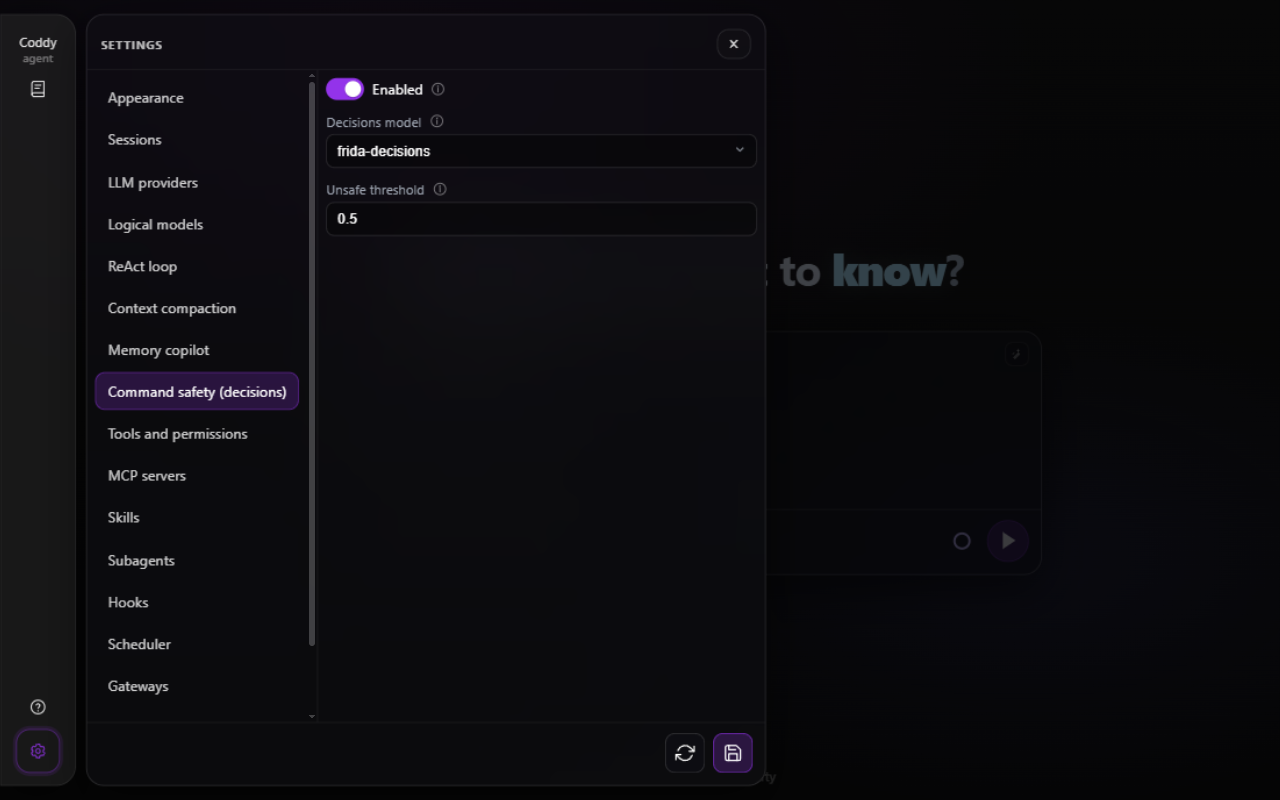
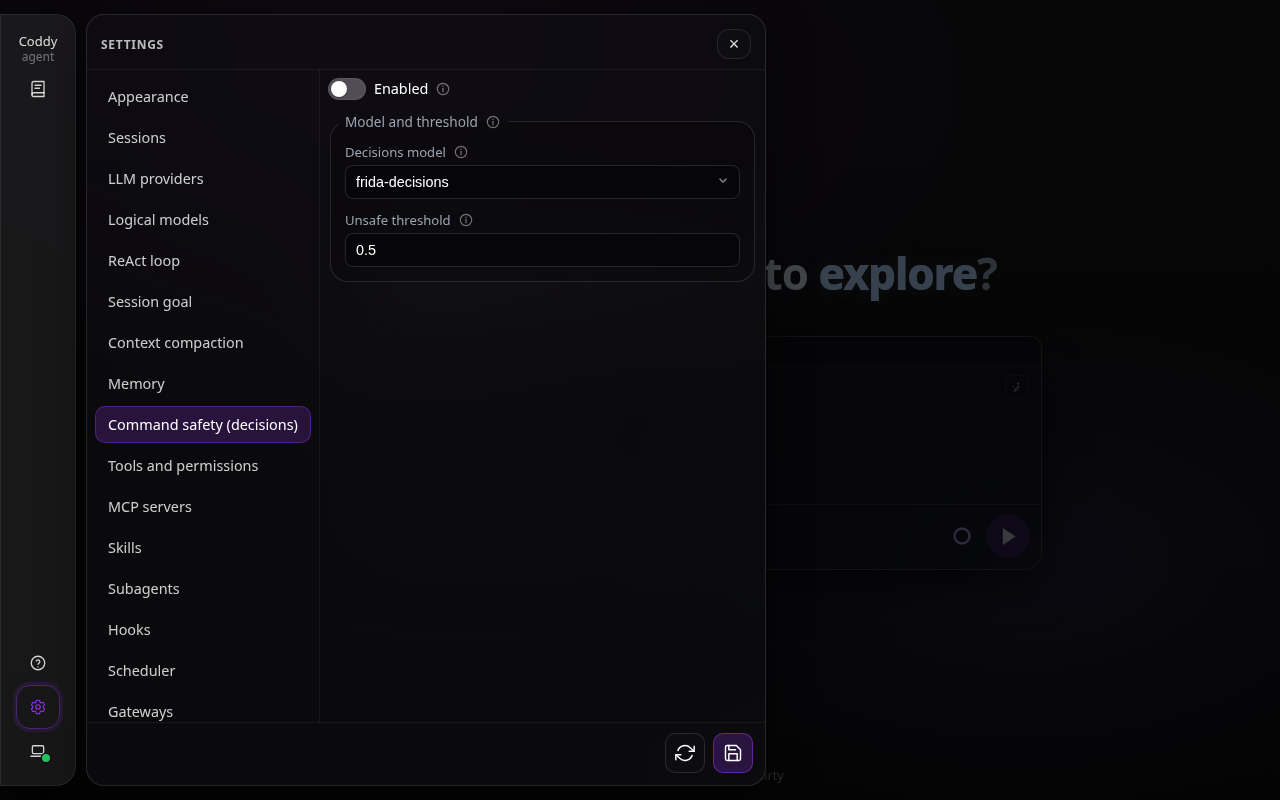
feat(ui): lay the decisions settings out as switch and fieldset
The Command safety (decisions) tab was a column of three loose fields. It
now follows the section form layout of the other tabs: the enable switch
opens the tab on its own, off by default, and the model and the unsafe
threshold sit in one fieldset, Model and threshold, whose (i) says what
the two fields decide, which commands are checked and that a command
longer than the model reads is not run.

DESIGN.md lists the new group, the docs screenshot is retaken on the real
surface (the switch off, the fieldset), and the vitest suite holds the
layout and the default.

diff --git a/external/ui/src/ui/settings/SettingsSection.decisions.test.tsx b/external/ui/src/ui/settings/SettingsSection.decisions.test.tsx
@@ -1,14 +1,22 @@
 import React from "react";
 import { afterEach, expect, test } from "vitest";
-import { cleanup, fireEvent, render, screen } from "@testing-library/react";
+import {
+  cleanup,
+  fireEvent,
+  render,
+  screen,
+  within,
+} from "@testing-library/react";
 import { SettingsSection } from "./SettingsSection";
 
 afterEach(cleanup);
 
-function Harness() {
-  const [doc, setDoc] = React.useState<Record<string, unknown>>({
-    decisions: { enable: false, model: "frida-decisions", threshold: 0.5 },
-  });
+function Harness(props: { initial?: Record<string, unknown> }) {
+  const [doc, setDoc] = React.useState<Record<string, unknown>>(
+    props.initial ?? {
+      decisions: { enable: false, model: "frida-decisions", threshold: 0.5 },
+    },
+  );
   return (
     <>
       <SettingsSection
@@ -90,4 +98,33 @@ test("raising the unsafe threshold writes it to the document", () => {
   fireEvent.change(input, { target: { value: "0.9", valueAsNumber: 0.9 } });
   const doc = JSON.parse(screen.getByTestId("doc").textContent!);
   expect(doc.decisions.threshold).toBe(0.9);
+});
+
+// DESIGN.md "Section form layout": the section's switch opens the tab on its
+// own, the fields sit in a fieldset by meaning, its description behind the
+// (i) beside the legend.
+test("the switch stands alone above one fieldset of the model and the threshold", () => {
+  const { container } = render(<Harness />);
+  const root = container.querySelector(".settings-schema-root")!;
+  const [first, second] = [...root.children] as HTMLElement[];
+  if (!first || !second) throw new Error("the form has fewer than two blocks");
+  expect(first.tagName).not.toBe("FIELDSET");
+  expect(first.querySelector("[role='switch']")).not.toBeNull();
+  expect(second.tagName).toBe("FIELDSET");
+  const legend = second.querySelector(":scope > legend")!;
+  expect(legend.textContent).toContain("Model and threshold");
+  expect(legend.querySelector("button")).not.toBeNull();
+  expect(within(second).getByRole("combobox")).toBeTruthy();
+  expect(
+    within(second).getByRole("spinbutton", { name: /unsafe threshold/i }),
+  ).toBeTruthy();
+  expect(within(second).queryByRole("switch")).toBeNull();
+});
+
+test("a configuration without the section shows the check switched off", () => {
+  render(<Harness initial={{}} />);
+  expect(screen.getByRole("switch", { name: /enabled/i })).toHaveAttribute(
+    "aria-checked",
+    "false",
+  );
 });

diff --git a/external/ui/src/ui/i18n/messages/ru.ts b/external/ui/src/ui/i18n/messages/ru.ts
@@ -284,6 +284,9 @@ export const messagesRu: Record<string, string> = {
   "settings.group.memory.runs": "Запуски",
   "settings.group.memory.limits": "Ограничения",
   "settings.group.memory.instructions": "Инструкции",
+  "settings.group.decisions.verdict": "Модель и порог",
+  "settings.group.decisions.verdictDesc":
+    "Модель decisions получает каждую команду оболочки, локальную или через SSH, которая выполнилась бы без запроса разрешения, и команда отклоняется, когда вероятность небезопасного варианта достигает порога. Команда длиннее того, что читает модель, не выполняется, frida-decisions читает 512 токенов, clef-flash 8192. Для проверки нужны учётные данные NeuralDeep в строке провайдера neuraldeep.",
   "settings.group.scheduler.jobs": "Задания",
   "settings.group.logger.main": "Настройки логирования",
   "settings.group.sessions.storage": "Хранилище",

diff --git a/external/ui/src/ui/i18n/messages/en.ts b/external/ui/src/ui/i18n/messages/en.ts
@@ -282,6 +282,9 @@ export const messagesEn: Record<string, string> = {
   "settings.group.memory.runs": "Runs",
   "settings.group.memory.limits": "Limits",
   "settings.group.memory.instructions": "Instructions",
+  "settings.group.decisions.verdict": "Model and threshold",
+  "settings.group.decisions.verdictDesc":
+    "The decisions model is asked about every shell command, local or over SSH, that would run without a permission prompt, and the command is rejected once the probability of the unsafe option reaches the threshold. A command longer than the model reads is not run: frida-decisions reads 512 tokens, clef-flash 8192. The check needs a NeuralDeep credential on the neuraldeep provider row.",
   "settings.group.scheduler.jobs": "Jobs",
   "settings.group.logger.main": "Logger settings",
   "settings.group.sessions.storage": "Storage",

diff --git a/external/ui/src/ui/settings/SettingsSection.tsx b/external/ui/src/ui/settings/SettingsSection.tsx
@@ -818,6 +818,18 @@ function objectSectionGroups(key: string): SchemaFormGroup[] | undefined {
       },
     ];
   }
+  if (key === "decisions") {
+    // The switch opens the tab on its own; the two knobs of the verdict sit
+    // together, what they mean behind the (i).
+    return [
+      {
+        id: "verdict",
+        legend: translate("settings.group.decisions.verdict"),
+        description: translate("settings.group.decisions.verdictDesc"),
+        paths: ["model", "threshold"],
+      },
+    ];
+  }
   if (key === "scheduler") {
     return [{ id: "jobs", legend: translate("settings.group.scheduler.jobs") }];
   }

diff --git a/DESIGN.md b/DESIGN.md
@@ -88,7 +88,7 @@ The **Settings** drawer (**`#/settings`**, **`Settings.tsx`**) is **tabbed**, no
 - **Layout**: on **`min-width: 1200px`** the drawer is **`min(680px, …)`** wide - as wide as the section rail plus a content column that holds **three theme cards a row** on Appearance (**`auto-fill, minmax(130px, 1fr)`**, 10px gap), the cards keeping their size and the drawer giving way; **`appearanceSettingsLayout.test.tsx`** computes the column count from the two rules - with a vertical section rail on the left (**`.settings-nav`**) and the content panel on the right (**`.settings-tabs-layout`** is `display:flex; row`). On **`max-width: 1199px`** (same breakpoint as the rest of the shell, via **`isMobileShell`** / **`shellBreakpoint.ts`**) the nav is a **2-wide tile grid** master–detail (**`SettingsTileGrid`**, **`.settings-tile-grid`**): each tile (**`data-testid="settings-tile-<id>"`**) shows the section **title** on top and a short 3–5 word **description** below (**`SECTION_DESCRIPTIONS`** in **`settingsSections.ts`**) styled after the Scheduler job rows. The description clamps to two lines with an ellipsis (**`-webkit-line-clamp: 2`**) and the full text shows in a native **`title`** tooltip on hover. Tapping a tile opens that section with a **← Back to sections** arrow in the drawer's head (**`.settings-head-back`**); the desktop rail (**`SettingsNav`**) is unchanged. On that shell the drawer has **one inline inset**, **14px**, set by the head and the lead pane: the tile grid, the section content (**`.settings-scroll`**) and the reload / save footer all ride it (**`padding-inline: 14px`** inside the **`max-width: 1199px`** block), and the tile grid keeps the same **14px** off the head's rule above it, so every band of the panel starts and ends on the same edge. The wide layout keeps the content panel's own **8px**, because there its left edge is the seam against the section rail rather than the drawer's edge.
 - **Secrets the server never sends back** (**`writeOnly`** in the schema, **`x-coddy-configured`** on the document): **`httpserver.auth_token`**, the sign-in password hash and the swarm tokens (**`swarm.auth_token`**, **`swarm.pairing_tokens`**, a join entry's **`pairing_token`** and **`token`**) come back from **`GET /coddy/config`** as a **`*_configured`** flag, never as a value. Such a field is a password input that is **empty** while a value is set and says so in its placeholder (**Set. Leave empty to keep it**, else **Not set**); leaving it empty keeps the stored value, typing replaces it. A list of secrets says how many are set and hidden in a state line under its legend (**`settings.secret.listSet`**, counted per locale), and the values entered in it replace them all. The two-way credentials - a provider's **`api_key`**, a remote's **`token`** - stay ordinary text fields, because the page needs their value.
 - **The relay's own Settings.** On a relay's home (the app on a relay, not on a node behind it) the drawer edits the relay's deployment: **`GET /coddy/config/schema`** answers with the relay's form (**`config.RelayUISchemaJSON`**: **`swarm`** and **`logger`** only, **`x-coddy-relay: true`** at the root), and **`deriveSettingsSections(schema, {relay: true})`** draws **Appearance** and those two tabs; the **Sessions** tab, which manages the stored sessions of an agent, is left out, even before the schema has arrived. The document is scoped the same way (**`configapi.Backend.Sections`**): **`GET /coddy/config`** serves only **`swarm`**, **`logger`** and the revision, and a save takes only those and refuses any other section, so a relay client never reads the host's provider keys or writes its other settings. **Save all** PUTs that document, and the relay applies the **`swarm`** section at once (a listen address that moved takes a restart); the **`logger`** section is read when the process starts next, as an agent's is. A node reached through a relay shows that node's own Settings; a node that is itself a relay refuses a write sent through the mount (**403**), so a relay is edited only on its own page.
-- **Section form layout** (**`SchemaForm`** **`groups`**, **`SchemaFormGroup`** **`{id, legend, description?, paths?, collapsible?}`**): a settings form is fieldsets by meaning, not a column of loose fields. A section's own **`enable`** switch opens the form **outside every fieldset**, above everything, wherever the schema puts it (Subagents, Hooks, Memory, Context compaction, Scheduler). A group with **`paths`** takes exactly those keys; the **first** group without **`paths`** is the catch-all and takes every key no group names, except a list or a nested object, which stands as a **block of its own** beside it rather than inside it. Every group stands **where its first field stands** in the schema order, blocks stand in place, and a key no group takes (one added to the schema later) still renders in place, so nothing silently leaves the form. A group's **`description`** is the (i) of its legend. The groups of each tab live in **`objectSectionGroups`** (**`SettingsSection.tsx`**): **ReAct loop** (Model and turns, Retries, Stream timeouts, Loop guard, Usage limits), **Context compaction** (Summarization), **Memory** (Model and storage, then the fallback models as a block of their own, Instructions, Runs, Limits), **Tools and permissions** (Permissions), **Hooks** (Hook settings), **Scheduler** (Jobs), **Logger** (Logger settings); the **Logical models** row form (**Model**: provider, id, context window, multimodal; **Generation**: max tokens, temperature, streaming; **Reasoning**: the levels and the default, passed through **`SettingsArraySection`** like the provider form's blocks), **Subagents** (Subagent settings), the **Sessions** tab (Storage) and each part of the **Prompts** tab (**Prompt templates**, and **Instruction files** as a block of its own) pass their own. Inside a nested object a list keeps its frame - the Telegram admins, user groups and per-chat overrides, the web search engines: there it belongs to the block around it. **Lists**: an entry of a list of plain values is a **bare input** beside its trash (**`ArrayItemControl`**, named **&lt;list&gt; N** for assistive technology), with no per-row label such as **`dirs[0]`**, no rule under the row, and **Add** under the rows; an entry of a list of objects is a frame of its own **without a legend** (**`.settings-array-entry`**, named the same way). The trash carries no margin, so a row is exactly as tall as its input (**`settingsDrawerRhythmCss.test.ts`**). **Maps**: a map of plain values - an object with no properties of its own whose every value is a string (**`isStringMapSchema`**), such as **`tools.http_request.default_headers`** - is a block like a list, and an entry is a row of **two bare inputs**, the name and then the value (**`.settings-map-entry`**, the value wider), beside its trash, named **&lt;map&gt; N: name** and **&lt;map&gt; N: value**, with **Add** under the rows. The rows are the form's own (**`StringMapField`**): a row whose name is still empty stays on screen and out of the document, of two rows with one name the later one wins, and a document that stops matching the rows (a reload, a save from elsewhere) replaces them while rendering. An empty value is kept, since for the headers it means "leave this one out". Tests: **`SchemaForm.groups.test.tsx`**, **`SchemaForm.map.test.tsx`**.
+- **Section form layout** (**`SchemaForm`** **`groups`**, **`SchemaFormGroup`** **`{id, legend, description?, paths?, collapsible?}`**): a settings form is fieldsets by meaning, not a column of loose fields. A section's own **`enable`** switch opens the form **outside every fieldset**, above everything, wherever the schema puts it (Subagents, Hooks, Memory, Command safety, Context compaction, Scheduler). A group with **`paths`** takes exactly those keys; the **first** group without **`paths`** is the catch-all and takes every key no group names, except a list or a nested object, which stands as a **block of its own** beside it rather than inside it. Every group stands **where its first field stands** in the schema order, blocks stand in place, and a key no group takes (one added to the schema later) still renders in place, so nothing silently leaves the form. A group's **`description`** is the (i) of its legend. The groups of each tab live in **`objectSectionGroups`** (**`SettingsSection.tsx`**): **ReAct loop** (Model and turns, Retries, Stream timeouts, Loop guard, Usage limits), **Context compaction** (Summarization), **Memory** (Model and storage, then the fallback models as a block of their own, Instructions, Runs, Limits), **Command safety (decisions)** (Model and threshold), **Tools and permissions** (Permissions), **Hooks** (Hook settings), **Scheduler** (Jobs), **Logger** (Logger settings); the **Logical models** row form (**Model**: provider, id, context window, multimodal; **Generation**: max tokens, temperature, streaming; **Reasoning**: the levels and the default, passed through **`SettingsArraySection`** like the provider form's blocks), **Subagents** (Subagent settings), the **Sessions** tab (Storage) and each part of the **Prompts** tab (**Prompt templates**, and **Instruction files** as a block of its own) pass their own. Inside a nested object a list keeps its frame - the Telegram admins, user groups and per-chat overrides, the web search engines: there it belongs to the block around it. **Lists**: an entry of a list of plain values is a **bare input** beside its trash (**`ArrayItemControl`**, named **&lt;list&gt; N** for assistive technology), with no per-row label such as **`dirs[0]`**, no rule under the row, and **Add** under the rows; an entry of a list of objects is a frame of its own **without a legend** (**`.settings-array-entry`**, named the same way). The trash carries no margin, so a row is exactly as tall as its input (**`settingsDrawerRhythmCss.test.ts`**). **Maps**: a map of plain values - an object with no properties of its own whose every value is a string (**`isStringMapSchema`**), such as **`tools.http_request.default_headers`** - is a block like a list, and an entry is a row of **two bare inputs**, the name and then the value (**`.settings-map-entry`**, the value wider), beside its trash, named **&lt;map&gt; N: name** and **&lt;map&gt; N: value**, with **Add** under the rows. The rows are the form's own (**`StringMapField`**): a row whose name is still empty stays on screen and out of the document, of two rows with one name the later one wins, and a document that stops matching the rows (a reload, a save from elsewhere) replaces them while rendering. An empty value is kept, since for the headers it means "leave this one out". Tests: **`SchemaForm.groups.test.tsx`**, **`SchemaForm.map.test.tsx`**.
 - **List sections** (**LLM Providers**, **Logical Models**) are **master–detail** (**`SettingsArraySection`**): a list of named buttons (labelled by **`name`** / **`model`**) with **Add**/**Remove**; **Add** or selecting a row hides the list and shows the item form. **The way back is the drawer's head, on every width**: while a row form is open the head reads what the form is (**`settings.item.<section>`**: **Provider settings**, **Model settings**; the section's name for a list without one) behind the same round back arrow the narrow shell's section view uses (**`.settings-head-back`**, **`data-testid="settings-head-back"`**, named **Back to &lt;list&gt;**), and the arrow closes the form onto the list (**`closeSignal`**; the list reports **`onEditingChange`**, so a row with no name yet is covered too). With no row open the desktop head reads **Settings** and the narrow shell's head names the section with its arrow back to the tiles. **Escape** takes the step the arrow takes while the head shows one, and closes the drawer when it shows none (**Escape and the screens of the rail**). The form carries no back control of its own inside the drawer (**`hideBackLink`**); outside it, **`SettingsArraySection`** keeps a quiet link, **`.settings-back-link`**, the app's chevron pointing left and the list's name. The open row is in the address, **`#/settings/<section>?id=<name>`** (**`appNavHrefSettingsSection`**, the name URL-encoded, so **`demo/qwen3.8-27b`** travels as **`demo%2Fqwen3.8-27b`**): opening a row writes it, going back takes it out, renaming the open row rewrites it (all with **`replaceState`**, no history entries), and an address naming a row opens it - one that names no row (a typo, a row deleted since) shows the list and drops the dead name from the address. The row form is **keyed by the row**, so switching rows through the address (edit to edit, never through the list) mounts a fresh form and nothing a field remembers - the proxy URL, a filter, a fold - crosses rows; an open form whose index is gone from the document falls back to the list. A row with no name yet keeps the address on the list while its form stays open; the row already open under a name stays open when a rename makes two rows share it. **`SettingsArraySection.test.tsx`** pins both directions; the drawer hands the address row only to the section the address names (**`appearanceSettingsLayout.test.tsx`**), because the tab catches up one render late and another list used to take the name for one of its own, find none and rewrite the address. The component is **keyed by the section** in **`SettingsSection`**: both tabs render the same component at the same place in the tree, and without the key a row form opened under LLM Providers stayed on screen when the operator switched to Logical Models, showing the first model's form instead of the list.
 - **Codex provider authentication**: when a provider row has **`type: codex`**, **`api_base`**, **`api_key`**, and **`api_key_command`** controls are replaced by **Sign In with ChatGPT**. The device-flow card shows the one-time code, a link to the official verification page, waiting/completed/error state, and **Sign Out** for Coddy-managed credentials. The token is server-side only.
 - **Proxy settings** (**`ProxySettingField`**, rendered through **`SchemaForm`**’s **`fieldOverride`** hook on path **`proxy`** for every provider type, codex included, and on **`telegram.proxy`** in the Gateways tab's Telegram block): an **Ignore system proxy** **`SwitchField`** (**`data-testid="proxy-setting-direct"`**) above the **Proxy URL** input (**`data-testid="proxy-setting-url"`**), both direct children of the form so they keep its spacing. The switch description names whose requests go direct (the provider's, or the bot's). The switch owns the **`none`** value; with it on the input is disabled (the muted look **`.settings-input:disabled`** shares with read-only inputs), empty, and its placeholder reads **Direct connection**. With it off the input holds the proxy URL, and an empty one (no value, or a stored **`inherit`**, any case) reads **Follows the system proxy**. Turning the switch off restores the last value the row held that was not **`none`** (typed, pasted or reloaded); that memory lives in the field for as long as the item form is open - the form mounts afresh for every row - because the document keeps one value, so a saved **`none`** no longer knows the URL it replaced.
@@ -117,7 +117,7 @@ The **Settings** drawer (**`#/settings`**, **`Settings.tsx`**) is **tabbed**, no
   - **Rows** (**`.subagents-list`**, **`.subagents-item`**, no rule between them, 10px apart): the **name behind the app's chevron** (**`.subagents-toggle`**, one button holding **`<Chevron />`** and the name, **`aria-expanded`**, **`aria-controls`** the facts, titled **Show / Hide declared bounds**; the chevron is centred on the name's first 20px line), a scope badge (**built in** / **yours** / **from the project**), **hidden**, the description as **plain text** (it comes out of a file that may have arrived with the checkout: never markdown, never a link), and the file in muted monospace (**`.subagents-file`**); description, file and facts start where the name does (**`.subagents-item-body`**, 18px: the 14px chevron and its 4px gap). A project definition still awaiting a receipt adds an amber **needs approval** badge (**`.subagents-badge-pending`**) whose tooltip names the shield and **`coddy agents trust <name>`**.
   - **Declared bounds** open under the row from its chevron, folded by default so the list stays scannable, with no line of their own and no browser disclosure triangle (**`chevronContract.test.tsx`** fails on a **`<summary>`** in a component that draws no **`<Chevron />`**): a **`<dl class="subagents-facts">`** from **`subagentDeclaredFacts`** in **`settings/subagentCatalog.ts`** - model, mode, permissions, tools, denies (only when declared), timeout (**`45s`** / **`10m`**), max turns, runs detached (only when forced), instructions size (**`B`** / **`KiB`**). A bound the definition leaves out reads as **inherited** (*the parent's model*, *everything the spawning session can call*, …) rather than disappearing. Keep the helpers in **`subagentCatalog.ts`** and the route in **`subagentsApi.ts`**; do **not** inline them.
   - **Containment**: **`.settings-subagents-section`** gives the catalog box, the list and its rows **`min-inline-size: 0; max-width: 100%`**, the file and the fact values **`overflow-wrap: anywhere`**, and a **104px** label column (**`.subagents-facts dt`**, **`flex: 0 0 104px`**) for labels like *permissions* / *инструменты*. An absolute path or a tool list must never widen the fieldset past the panel.
-- **Field descriptions** (**`FieldHint`**, **`FieldLabel`**, **`LegendWithHint`** in **`external/ui/src/ui/settings/FieldHint.tsx`**): a settings form is a list of names and controls. The description of a field or a fieldset is never a paragraph under its name: it is a quiet **(i)** right after the name (**`.field-hint`**, 18px, **`color-mix(var(--text) 42%)`**, **`var(--accent)`** while hovered, focused or open), and its text shows in a tip on **hover**, on **keyboard focus** and on a **tap**; leaving, blur, **Escape**, a tap elsewhere and any **scroll** close it. The tip (**`.field-hint-tip`**, the **`--coddy-tip-*`** tokens, 12px / 1.5, at most **`min(320px, 100vw - 24px)`**) is **portalled to `<body>`** and positioned **`fixed`** **above** the (i), centred on it (below when there is no room), clamped **12px** inside the viewport, at **`z-index: 1000`**, the highest in the stylesheet, and with **`pointer-events: none`**. Portal and fixed placement are the point: a tip rendered inside the field lived in **`.settings-scroll`**, where it was clipped or grew a stray scrollbar. It exists only while open, and the (i) (**`aria-label`** **About &lt;name&gt;**) points at it through **`aria-describedby`** then. Every settings control with a name and a description goes through **`FieldLabel`** (text, number and enum fields of **`SchemaForm`**, **`ModelPicker`**, **`ReasoningLevelsField`**, **`ContextWindowField`**, the proxy URL, the NeuralDeep endpoint and both sign-in blocks), **`LegendWithHint`** (object and array fieldsets of **`SchemaForm`**, its groups that carry a **`description`** - Subagent settings, Hook settings, Storage, Prompt templates - the Skills sources, MCP discovery and servers, the Subagents catalog) or **`SwitchField`**. What stays a paragraph is **state**, not description: status lines (reasoning levels, the model list, the context window note), the device-flow code prompts, the unknown-endpoint warning. Tests: **`FieldHint.test.tsx`** (hover, focus, tap, the close paths, the portal, the click never reaching a surrounding label, the CSS layering).
+- **Field descriptions** (**`FieldHint`**, **`FieldLabel`**, **`LegendWithHint`** in **`external/ui/src/ui/settings/FieldHint.tsx`**): a settings form is a list of names and controls. The description of a field or a fieldset is never a paragraph under its name: it is a quiet **(i)** right after the name (**`.field-hint`**, 18px, **`color-mix(var(--text) 42%)`**, **`var(--accent)`** while hovered, focused or open), and its text shows in a tip on **hover**, on **keyboard focus** and on a **tap**; leaving, blur, **Escape**, a tap elsewhere and any **scroll** close it. The tip (**`.field-hint-tip`**, the **`--coddy-tip-*`** tokens, 12px / 1.5, at most **`min(320px, 100vw - 24px)`**) is **portalled to `<body>`** and positioned **`fixed`** **above** the (i), centred on it (below when there is no room), clamped **12px** inside the viewport, at **`z-index: 1000`**, the highest in the stylesheet, and with **`pointer-events: none`**. Portal and fixed placement are the point: a tip rendered inside the field lived in **`.settings-scroll`**, where it was clipped or grew a stray scrollbar. It exists only while open, and the (i) (**`aria-label`** **About &lt;name&gt;**) points at it through **`aria-describedby`** then. Every settings control with a name and a description goes through **`FieldLabel`** (text, number and enum fields of **`SchemaForm`**, **`ModelPicker`**, **`ReasoningLevelsField`**, **`ContextWindowField`**, the proxy URL, the NeuralDeep endpoint and both sign-in blocks), **`LegendWithHint`** (object and array fieldsets of **`SchemaForm`**, its groups that carry a **`description`** - Subagent settings, Hook settings, Model and threshold, Storage, Prompt templates - the Skills sources, MCP discovery and servers, the Subagents catalog) or **`SwitchField`**. What stays a paragraph is **state**, not description: status lines (reasoning levels, the model list, the context window note), the device-flow code prompts, the unknown-endpoint warning. Tests: **`FieldHint.test.tsx`** (hover, focus, tap, the close paths, the portal, the click never reaching a surrounding label, the CSS layering).
 - **Boolean switch fields** (**`SwitchField`**, **`external/ui/src/ui/settings/SwitchField.tsx`**): every on/off setting in a settings form - the schema-driven **`SchemaForm`** booleans (**`models[].multimodal`**, **`models[].stream`**, **`tools.background.enable`**, **`memory.enable`**, gateway **`enable`** flags, ...) and the Skills **auto-discovery** row - renders through this one component, never as a bare **`Switch`** beside a **`<span>`**. It lays the shared **`Switch`** (**`.skill-switch`**, **38×22**, 16px thumb) and a **label cell** (**`.settings-switch-field-label-cell`**, a flex row centring its children with a **6px** gap) on a **two-column grid** (**`.settings-switch-field`**: **`grid-template-columns: auto minmax(0, 1fr)`**, **`column-gap: 8px`**, **`row-gap: 4px`**, **`align-items: center`**). The cell holds the label (a real **`<label htmlFor>`**, **`.settings-switch-field-label`**, **0.9rem**, **`var(--text)`**, so clicking the text toggles the control) and, when the field has a description, its **(i)** (**`FieldHint`**, see **Field descriptions** below) outside the **`<label>`**, so opening the tip never flips the switch.
   - **Alignment contract**: the label's vertical centre matches the switch's centre (**within 1px**), the label starts **8px** after the switch, and the (i) sits **6px** after the label on the same centre line. There is no description paragraph under the label any more; the checkbox-era **`padding-left: 28px`** rule (**`.settings-field-desc-below-checkbox`**) and the later **`.settings-switch-field-desc`** grid rule are both gone and must not come back.
   - **Naming**: the visible label names the control through **`aria-labelledby`**; pass **`ariaLabel`** only when the visible text is state copy (**Enabled** / **Disabled**, as on Skills auto-discovery). **`Switch`** enforces the precedence itself: with **`ariaLabel`** set it emits no **`aria-labelledby`**, so a direct caller cannot invert it. The former **`.settings-row-inline`** helper is deleted with its last consumers: used without **`.settings-row`** it fell back to inline flow (no gap, label baseline on the switch's bottom edge), which is how this bug happened, and there is no inline-flex variant to reach for.

diff --git a/docs/ru/features/decisions.md b/docs/ru/features/decisions.md
@@ -66,6 +66,6 @@ NEURALDEEP_API_KEY=... go test ./internal/agent -run TestLiveDecisionsE2E -count
 
 ![Вкладка Command safety (decisions) в настройках](../../assets/decisions/decisions-settings-dark-1280.png)
 
-*Настройки → Безопасность команд (decisions) - переключатель включения, выбор модели и порог небезопасности*
+*Настройки → Безопасность команд (decisions) - переключатель включения, по умолчанию выключенный, над группой "Модель и порог", чья (i) объясняет оба поля*
 
-<!-- docsgen:source sha256=7eace3cc3c06a518 -->
+<!-- docsgen:source sha256=c571975158d52bf8 -->

diff --git a/docs/features/decisions.md b/docs/features/decisions.md
@@ -66,4 +66,4 @@ NEURALDEEP_API_KEY=... go test ./internal/agent -run TestLiveDecisionsE2E -count
 
 ![The Command safety (decisions) tab of the Settings drawer](../assets/decisions/decisions-settings-dark-1280.png)
 
-*Settings → Command safety (decisions): the enable switch, the model picker and the unsafe threshold*
+*Settings → Command safety (decisions): the enable switch, off by default, above the Model and threshold fieldset, whose (i) explains the two fields*

diff --git a/docs/assets/INDEX.md b/docs/assets/INDEX.md
@@ -184,7 +184,7 @@ Generated by `make docs`. "Used by" lists the files that reference the asset.
 
 | File | Size | Used by |
 |------|------|---------|
-| `decisions-settings-dark-1280.png` | 169 KB | docs/features/decisions.md, docs/ru/features/decisions.md |
+| `decisions-settings-dark-1280.png` | 166 KB | docs/features/decisions.md, docs/ru/features/decisions.md |
 
 ### docs/assets/git-worktree
 
